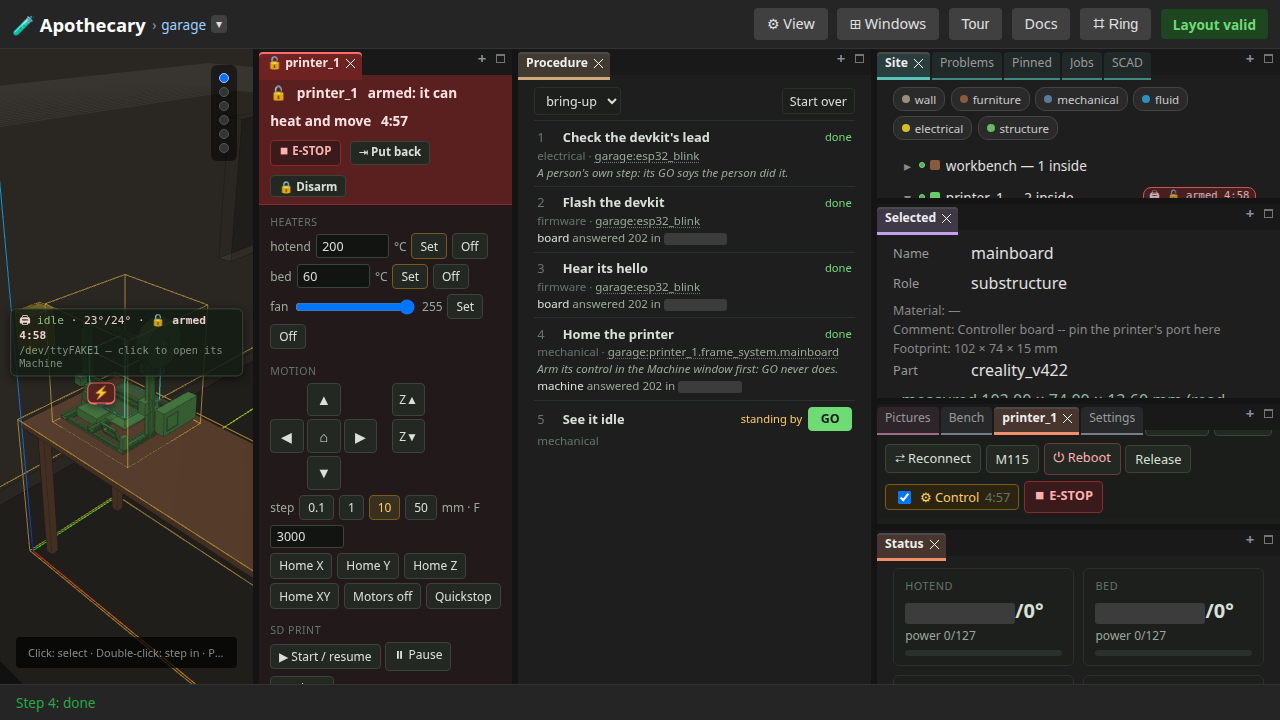
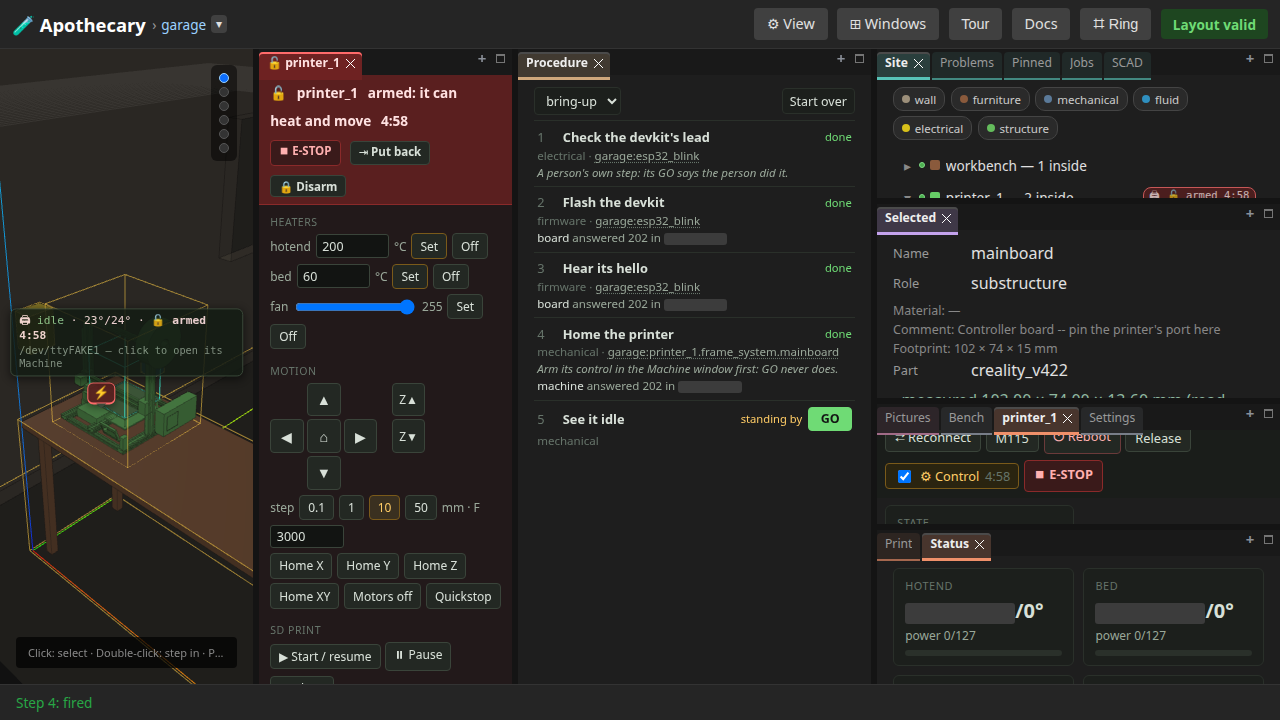
A printer's Machine opens with its Print window, whose makes offers every part of the apothecary
Printing from the page took two detours. A printer's Machine opened alone, and
its Print window had to be found under Panels › Windows. Its makes listed only
the pieces of the printer's own site, so a part of the apothecary that stands
nowhere in the garage (the calibration cube) could not be chosen there at all.

A printer's or a router's Machine now opens with its Print or Cut window under it,
so the Machine's head and E-STOP stay in view. As the Machine opens, the window
takes the front from no window already shown -- the sections a link asked for, the
Machine itself where the column is full -- and stands behind as a tab there; the
Machine opened again brings it forward. None is opened while a journey is entered,
whose steps choose their windows. makes lists the site's pieces, then every
registered part no node has the path of, by its name (JobPart.registered), under
two headings. The slicer already took a registered part's name; a cut with a site,
a machine's plan and a job now take one too, and the registry has a public
part_names for the routes that need the names.

tests/e2e/test_make.py opens printer_1 with no board and finds its Print shown
beside the Machine, both headings in makes, the calibration cube among the
apothecary's parts and the footpedal only in the garage's, and the Print window
back after it is closed and the Machine opened again. tests/e2e/test_focused_systems.py
holds the rule as it now is: a system's main window opens with the one section it is
[…]

Changed region(s): [[0.6875, 0.5806, 0.9375, 0.7944]]

diff --git a/apothecary/static/widgets/machine.js b/apothecary/static/widgets/machine.js
@@ -1557,7 +1557,9 @@ export function mountMachine(root, { base = "", port = "", host = "world", board
         try { prt.jobs = await api(`/jobs?kind=${jobKind()}&machine=${encodeURIComponent(state.port)}`); } catch (e) { prt.jobs = []; }
         renderPrint();
     }
-    // The parts a print here can name: the site's, when the printer is pinned in one.
+    // The parts a print here can name, when the printer is pinned in a site: the
+    // site's pieces, then every part of the apothecary that stands nowhere in it, by
+    // its name, each group under its own heading.
     // Asked again by the world whenever its site changes in place (a piece made,
     // rebuilt or dropped), so a Machine left open lists the piece made meanwhile;
     // what was chosen stays chosen while it is still there.
@@ -1577,8 +1579,12 @@ export function mountMachine(root, { base = "", port = "", host = "world", board
         // for) while an earlier list was on its way is not undone by its arrival.
         const had = prt.wanted || sel.value;
         if (prt.wanted && parts.some((p) => p.path === prt.wanted)) prt.wanted = null;
+        const options = (list) => list.map((p) => `<option value="${esc(p.path)}">${esc(p.path)}${p.name !== p.path ? " · " + esc(p.name) : ""}</option>`).join("");
+        const group = (label, list) => (list.length ? `<optgroup label="${esc(label)}">${options(list)}</optgroup>` : "");
         sel.innerHTML = c && c.site
-            ? '<option value="">— no part named —</option>' + parts.map((p) => `<option value="${esc(p.path)}">${esc(p.path)}${p.name !== p.path ? " · " + esc(p.name) : ""}</option>`).join("")
+            ? '<option value="">— no part named —</option>'
+                + group(`in ${c.site}`, parts.filter((p) => !p.registered))
+                + group("every part of the apothecary", parts.filter((p) => p.registered))
             : '<option value="">— pinned in no site —</option>';
         sel.disabled = !(c && c.site);
         if (had && parts.some((p) => p.path === had)) sel.value = had;

diff --git a/tests/e2e/test_focused_systems.py b/tests/e2e/test_focused_systems.py
@@ -2,8 +2,9 @@
 test each, parameterized over the registry, so a system or a section added there is
 held here with no test of its own.
 
-For each system: opened, its main window shows alone and every section is a window
-closed until asked for; each section opened from the header's ⊞ Windows shows its part
+For each system: opened, its main window shows, with the one section it is opened for
+where it has one (a printer's Print, a router's Cut), and every other section is a
+window closed until asked for; each section opened from the header's ⊞ Windows shows its part
 of the subject; its view, a cell of Panels › Windows, lays out every window of it; and
 a reload keeps the sections of a system that lasts and forgets those of one made for
 the moment. How each system is opened, and what each section shows, are the two
@@ -143,6 +144,10 @@ VERB = {
 
 CASES = list(OPENING)
 
+# The section a case's main window opens with: what the machine is opened for, a
+# printer's Print and a router's Cut (the page's makingWith). Every other is closed.
+WITH = {"machine-printer": "print", "machine-router": "print"}
+
 # A link to each case's subject: what it opens is the registry's (each section's
 # `on_link`), for the subject's kind.
 LINK = {
@@ -258,12 +263,19 @@ def test_every_system_and_section_has_a_line_here():
 
 @pytest.mark.e2e
 @pytest.mark.parametrize("case", CASES)
-def test_a_system_opens_its_main_window_alone(page: Page, url: str, case: str):
+def test_a_system_opens_its_main_window_with_what_it_is_opened_for(page: Page, url: str, case: str):
     _opened(page, url, case)
     system, sections = _sections(case)
+    if case in WITH:
+        page.wait_for_function(
+            "(id) => window.apothecaryPanels.isShown(id)",
+            arg=system.window(WITH[case]),
+            timeout=RING_MS,
+        )
     for section in sections:
         state = windows.state(page, system.window(section.id))
-        assert state is not None and state["open"] is False, (section.id, state)
+        opened = section.id == WITH.get(case)
+        assert state is not None and state["open"] is opened, (section.id, state)
         assert state["group"] == system.group, section.id
     # A section for another kind of subject is no window of this one.
     for section in system.sections:
@@ -308,7 +320,10 @@ def test_a_reload_keeps_a_lasting_systems_sections_and_forgets_a_passing_ones(
     system, sections = _sections(case)
     # A section no link asks for: an address that keeps the subject (a board's Machine,
     # ?machine=) is a link a reload follows, and opens what a link asks for.
-    first = system.window(next((s for s in sections if not s.on_link), sections[0]).id)
+    # Nor the one it opens with, which opens again with the subject.
+    first = system.window(
+        next((s for s in sections if not s.on_link and s.id != WITH.get(case)), sections[0]).id
+    )
     windows.from_the_windows_menu(page, first)
     windows.remembered(page)
     page.reload()
@@ -371,7 +386,12 @@ def test_a_link_to_a_subject_opens_what_it_asks_for(page: Page, url: str, case: 
     system, sections = _sections(case)
     for section in sections:
         window = system.window(section.id)
-        if window not in linked:
+        if section.id == WITH.get(case):
+            # Open with the subject, behind what the link asked for.
+            page.wait_for_function(
+                "(id) => window.apothecaryPanels.isOpen(id)", arg=window, timeout=RING_MS
+            )
+        elif window not in linked:
             assert windows.state(page, window)["open"] is False, window
 
 

diff --git a/tests/e2e/test_make.py b/tests/e2e/test_make.py
@@ -1,0 +1,60 @@
+"""Making a part on a machine, from wherever a person is looking at it.
+
+A printer's Machine opens with its Print window in front, under it, and its makes
+lists the site's pieces and then every part of the apothecary.
+
+Runs against a server of its own with nothing pinned: printer_1 is opened as the garage
+plans it, with no board connected. No real port is opened.
+"""
+
+from __future__ import annotations
+
+import pytest
+import windows
+from garage import open_garage
+from playwright.sync_api import Page, expect
+
+
+@pytest.fixture(scope="module")
+def url(base_url, start_server):
+    """This module's own server. ``base_url`` is asked for only so that with no server
+    to run against this is skipped, as every browser test is."""
+    return start_server({})
+
+
+def _machines_known(page: Page) -> None:
+    page.wait_for_function(
+        "() => window.fractalViewer.machinesHere.some((m) => m.path === 'printer_1')",
+        timeout=15000,
+    )
+
+
+@pytest.mark.e2e
+def test_a_printer_opens_with_its_print_window_and_makes_any_part(page: Page, url: str):
+    errors: list = []
+    page.on("pageerror", lambda error: errors.append(str(error)))
+    open_garage(page, url, settle=False)
+    _machines_known(page)
+    assert page.evaluate("() => window.fractalViewer.openMachine('printer_1')") is True
+    expect(page.locator(f"{windows.MACHINE} > .machine.kind-printer")).to_be_attached(timeout=15000)
+    # Its Print, open and in front, in a stack of its own under the Machine, so the
+    # Machine's head stays in view beside it.
+    page.wait_for_function("() => window.apothecaryPanels.isShown('machine-print')", timeout=10000)
+    assert page.evaluate("() => window.apothecaryPanels.isShown('machine')") is True
+    # makes: the garage's pieces, then every part of the apothecary by its name.
+    groups = windows.in_machine(page, "#print-part optgroup")
+    expect(groups).to_have_count(2, timeout=10000)
+    assert [groups.nth(i).get_attribute("label") for i in range(2)] == [
+        "in garage",
+        "every part of the apothecary",
+    ]
+    here = windows.in_machine(page, "#print-part optgroup[label='in garage'] option")
+    every = windows.in_machine(page, "#print-part optgroup[label^='every'] option")
+    assert "footpedal" in here.all_inner_texts()
+    assert "calibration_cube" in every.all_inner_texts()
+    assert "footpedal" not in every.all_inner_texts()
+    # Closed, and the Machine opened again: its Print is back.
+    windows.close(page, "machine-print")
+    assert page.evaluate("() => window.fractalViewer.openMachine('printer_1')") is True
+    page.wait_for_function("() => window.apothecaryPanels.isShown('machine-print')", timeout=10000)
+    assert errors == []

diff --git a/apothecary/api.py b/apothecary/api.py
@@ -127,6 +127,7 @@ from .projects.registry import (
     PartLoadError,
     ProjectInfo,
     load_part,
+    part_names,
     sanitize_module_name,
     scan_projects,
 )
@@ -403,7 +404,7 @@ def is_board(part_ref: Optional[str]) -> bool:
 
 
 def _available_part_names() -> List[str]:
-    return sorted({p.name for p in scan_projects(ROOT) if p.kind == "part" and p.has_part})
+    return part_names(ROOT)
 
 
 def _repo_relative_path(path: Path) -> str:
@@ -2222,8 +2223,10 @@ def parts_of(site_name: str, site: Assembly, leave_out: str) -> List[jobs.JobPar
     """What a job in ``site`` can name as the part it makes, by path: every node
     built from a part (named for its ``part_ref``) and every piece made from a
     picture (named for its word, with the picture and the camera it came from),
-    but nothing at or under ``leave_out`` -- the machine itself. Holes cut from a
-    piece are not things made."""
+    but nothing at or under ``leave_out`` -- the machine itself; then every
+    registered part no node has the path of, by its name, so any part of the
+    apothecary can be made wherever the machine stands. Holes cut from a piece
+    are not things made."""
     from .vision import views as viewing
 
     made = viewing.store().made_at(site_name)
@@ -2244,7 +2247,12 @@ def parts_of(site_name: str, site: Assembly, leave_out: str) -> List[jobs.JobPar
             visit(child, path)
 
     visit(site, "")
-    return [found[path] for path in sorted(found)]
+    registered = [
+        jobs.JobPart(path=name, name=name, registered=True)
+        for name in _available_part_names()
+        if name not in found and name != leave_out
+    ]
+    return [found[path] for path in sorted(found)] + registered
 
 
 def _place_of(port: str) -> Optional[jobs.Place]:

diff --git a/apothecary/jobs.py b/apothecary/jobs.py
@@ -79,14 +79,16 @@ class JobInput(BaseModel):
 
 
 class JobPart(BaseModel):
-    """The part or piece a job makes: a node of the job's site. A piece made from a
-    picture also carries the picture and the camera that took it, as they were
-    when the job began: kept in the job's record, not shown in its row."""
+    """The part or piece a job makes: a node of the job's site, or a registered part
+    that stands nowhere in it, named by its name. A piece made from a picture also
+    carries the picture and the camera that took it, as they were when the job
+    began: kept in the job's record, not shown in its row."""
 
     path: str
     name: str  # the part it is built from, or the piece's own name
     picture: Optional[str] = None  # a made piece's picture, under the picture root
     camera: Optional[str] = None  # the camera that took that picture, when one did
+    registered: bool = False  # a registered part, not a node of the site: its path is its name
 
 
 class JobFacts(BaseModel):
@@ -223,7 +225,7 @@ def part_at(place: Optional[Place], path: Optional[str]) -> Optional[JobPart]:
         raise ValueError("this machine is pinned in no site, so no part of one can be named")
     found = next((p for p in place.parts if p.path == path), None)
     if found is None:
-        raise ValueError(f"{path!r} is not a part or piece of {place.site}")
+        raise ValueError(f"{path!r} is not a part or piece of {place.site}, nor a part's name")
     return found
 
 

diff --git a/tests/test_job_api.py b/tests/test_job_api.py
@@ -159,7 +159,14 @@ def test_the_choices_say_where_a_machine_stands_and_what_its_job_can_name(
     assert parts["arduino_uno"] == "arduino_uno"
     assert parts["bin_1"] == "bin"
     assert not [p for p in parts if p == "printer_1" or p.startswith("printer_1.")]
-    assert list(parts) == sorted(parts)
+    # The site's own first, then every registered part no node has the path of, by
+    # its name: any part of the apothecary can be made where the printer stands.
+    here_first = [p["path"] for p in here["parts"] if not p["registered"]]
+    registered = [p["path"] for p in here["parts"] if p["registered"]]
+    assert list(parts) == here_first + registered
+    assert here_first == sorted(here_first) and registered == sorted(registered)
+    assert "calibration_cube" in registered and parts["calibration_cube"] == "calibration_cube"
+    assert "footpedal" not in registered and "esp32_devkitc" in registered
     # A made piece carries the picture and the camera it came from, for the job's
     # record (kept, and not shown in a job's row); a part carries neither.
     by_path = {p["path"]: p for p in here["parts"]}
@@ -168,6 +175,7 @@ def test_the_choices_say_where_a_machine_stands_and_what_its_job_can_name(
         "name": "bin",
         "picture": "captures/bench.png",
         "camera": "camera_1",
+        "registered": False,
     }
     assert by_path["footpedal"]["picture"] is None and by_path["footpedal"]["camera"] is None
 

diff --git a/apothecary/cam/api.py b/apothecary/cam/api.py
@@ -16,6 +16,8 @@ from pydantic import BaseModel, Field
 
 from .. import sites
 from ..hierarchy import find_node_by_path
+from ..projects.parts.skeleton import ROOT
+from ..projects.registry import part_names
 from . import service
 from .models import CutFor, CutRecord
 
@@ -35,8 +37,9 @@ class CutRequest(BaseModel):
 
 def _part_named(site: Optional[str], part: str) -> str:
     """The registered part ``part`` names: with a site, the part the node at that
-    path stands for (its ``part_ref``), as the Cut card's makes names it; without
-    one, the registry name itself."""
+    path stands for (its ``part_ref``), as the Cut card's makes names it, else a
+    registered part of that name, which makes lists after the site's pieces;
+    without one, the registry name itself."""
     if site is None:
         return part
     try:
@@ -44,7 +47,11 @@ def _part_named(site: Optional[str], part: str) -> str:
     except KeyError:
         node = None
     if node is None:
-        raise HTTPException(status_code=404, detail=f"{part!r} is not a piece of {site}")
+        if part in part_names(ROOT):
+            return part
+        raise HTTPException(
+            status_code=404, detail=f"{part!r} is no piece of {site} and no part's name"
+        )
     if not node.part_ref:
         raise HTTPException(
             status_code=400,

diff --git a/apothecary/routes/machines.py b/apothecary/routes/machines.py
@@ -3,7 +3,8 @@
 - ``GET /sites/{name}/machines``: the nodes of the site drawn from a part that is a
   machine, each with its kind, whether or not a board is pinned to it.
 - ``GET /sites/{name}/machines/{path}``: what a job on that machine could name -- its
-  kind and what that kind offers, the parts and pieces of the site -- in the shape
+  kind and what that kind offers, the parts and pieces of the site and then every
+  registered part -- in the shape
   ``GET /jobs/choices`` answers for a board's port, with no port; where it stands, as
   ``/firmware/printers/where`` says of a pinned board's printer; and its plan.
 - ``PUT /sites/{name}/machines/{path}/plan``: keep the part it will make and the kept
@@ -94,7 +95,10 @@ def keep_plan(name: str, path: str, body: PlanRequest):
 
     site, _, kind = _machine(name, path)
     if body.part and body.part not in {p.path for p in parts_of(name, site, path)}:
-        raise HTTPException(status_code=422, detail=f"{body.part!r} is no part or piece of {name}")
+        raise HTTPException(
+            status_code=422,
+            detail=f"{body.part!r} is no part or piece of {name}, and no part's name",
+        )
     try:
         plan = machine_plans.save(name, path, kind, body.part, body.file_id)
     except ValueError as exc:

diff --git a/tests/test_cam.py b/tests/test_cam.py
@@ -162,7 +162,14 @@ def test_the_cut_route_takes_a_site_s_piece_and_refuses_a_part_without_cuts(
         r = c.post("/cam/cut", json={"part": "footpedal", "site": "garage", "port": PORT})
         assert r.status_code == 400 and "does not say how it is cut" in r.json()["detail"]
         r = c.post("/cam/cut", json={"part": "nowhere", "site": "garage", "port": PORT})
-        assert r.status_code == 404
+        assert r.status_code == 404 and "no part's name" in r.json()["detail"]
+        # A registered part that stands nowhere in the site is named by its name, as
+        # makes lists it after the site's pieces: found, and refused for what it is.
+        r = c.post("/cam/cut", json={"part": "calibration_cube", "site": "garage", "port": PORT})
+        assert (
+            r.status_code == 400
+            and "calibration_cube does not say how it is cut" in r.json()["detail"]
+        )
 
 
 def test_the_ring_offers_toolpath_on_a_part_with_cuts_when_a_router_is_pinned(garage):

diff --git a/tests/test_machine_plans.py b/tests/test_machine_plans.py
@@ -66,6 +66,8 @@ def test_a_plan_names_a_part_of_the_site_and_a_file_of_the_machine_s_kind():
     assert client.put(plan, json={"file_id": "20260101T000000.000-nothing"}).status_code == 422
     assert client.put(plan, json={"part": "nowhere"}).status_code == 422
     assert client.put(plan, json={"part": "cnc_router"}).status_code == 422  # the machine itself
+    # A registered part standing nowhere in the site is named by its name.
+    assert client.put(plan, json={"part": "calibration_cube"}).json()["part"] == "calibration_cube"
     assert client.delete(plan).json() == {"cleared": True}
     assert client.get("/sites/garage/machines/cnc_router").json()["plan"] is None
 

diff --git a/apothecary/projects/registry.py b/apothecary/projects/registry.py
@@ -111,6 +111,12 @@ def load_part(item: ProjectInfo) -> "BasePart":
         raise PartLoadError(item.name, item.wrapper, exc) from exc
 
 
+def part_names(root: Path) -> List[str]:
+    """The names of the registered parts under ``root``, sorted: each one
+    ``part_named`` finds, whether or not it loads."""
+    return sorted({p.name for p in scan_projects(root) if p.kind == "part" and p.has_part})
+
+
 def part_named(name: str, root: Path) -> "BasePart":
     """The registered part called ``name``; ``KeyError`` when none is, and
     ``PartLoadError`` when it will not load."""

diff --git a/apothecary/machine_plans.py b/apothecary/machine_plans.py
@@ -33,7 +33,7 @@ class MachinePlan(BaseModel):
     site: str
     path: str  # the machine's node
     kind: str  # "printer" or "router"
-    part: Optional[str] = None  # the piece of the site it will make, by its path there
+    part: Optional[str] = None  # what it makes: a piece of the site by path, or a part by name
     file_id: Optional[str] = None  # the kept file, kept for this kind of machine, that makes it
     planned_at: datetime
 
